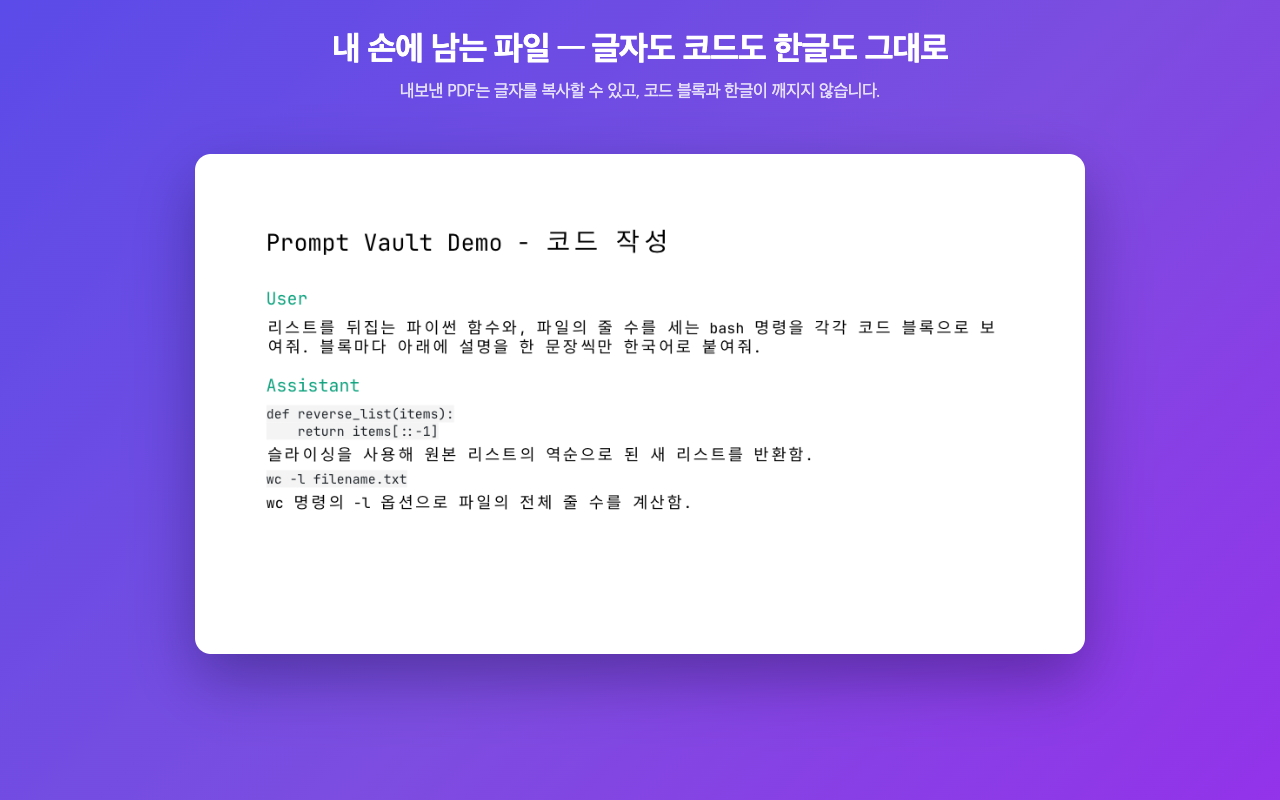
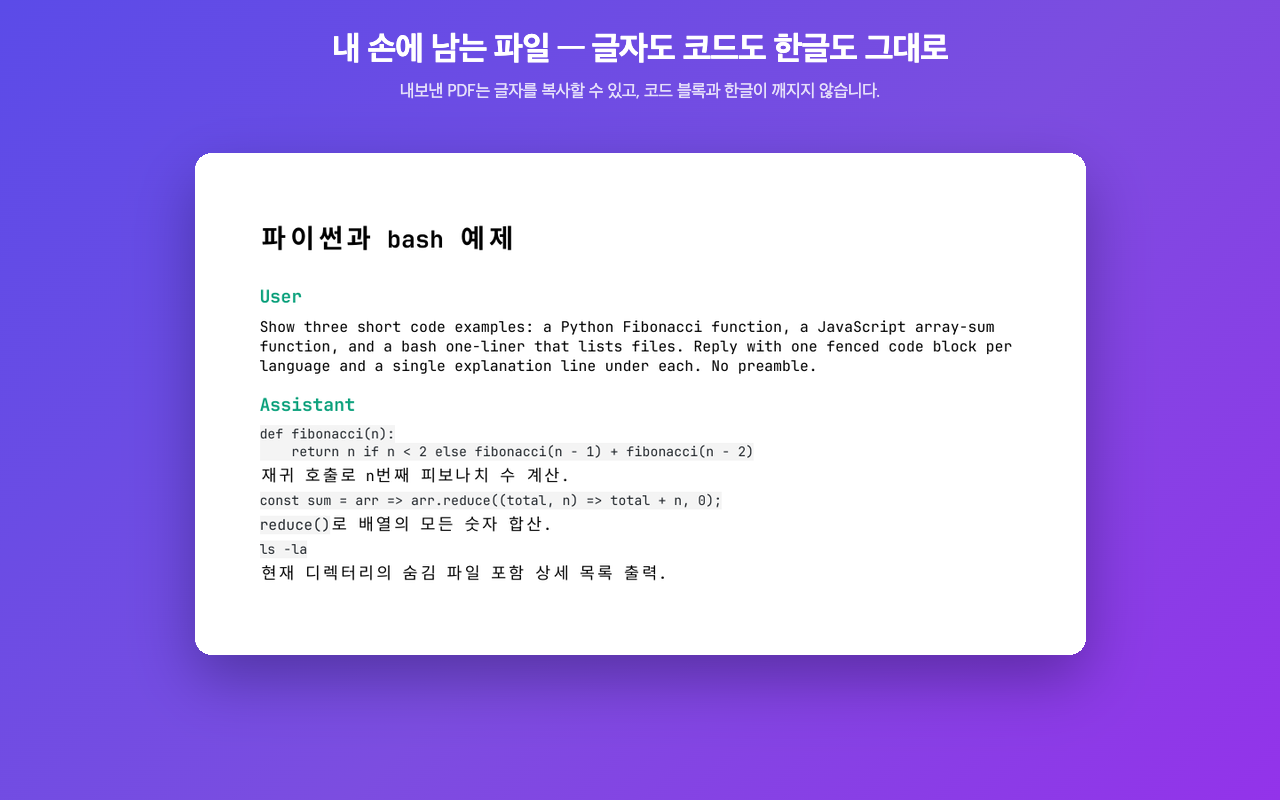
[DOCS] Refresh PDF store screenshots and close fulfilled backlog items (#115)

Changed region(s): [[0.1875, 0.3438, 0.7812, 0.7188], [0.1875, 0.2812, 0.5312, 0.3125]]

diff --git a/docs/store-listing.md b/docs/store-listing.md
@@ -130,13 +130,25 @@ Shipped screenshot set (in listing order):
    pixel is in frame, and a caption must not claim more than its own image shows.
 4. `screenshot-04-popup-settings` — the extension popup's format and bulk-icon toggles.
 5. `screenshot-05-exported-pdf` — a real exported PDF with mixed English/Korean prose and
-   code blocks, demonstrating selectable text and correctly rendered CJK glyphs. Its demo
-   conversation deliberately holds Python and shell only: the first capture used a JavaScript
-   answer and put both open PDF defects on display — the code font's ligature turned `=>` into
-   `⇒`, and an inline-code run kept its backticks (both filed in `backlog.md`). Choosing content
-   that avoids them keeps the caption true of the image, but it hides a defect that is still
-   there, so **re-capture this shot from a conversation containing `=>` once those two items
-   land** — that is the version worth shipping.
+   Python, JavaScript, and Bash code. Both locale images use the same existing non-sensitive
+   conversation from **Prompt Vault Demo**, with their original locale-specific captions.
+   The JavaScript block retains literal `=>`; the explanation renders inline `reduce()`
+   without backticks. This replaces the earlier Python/Bash-only capture that avoided those
+   two rendering cases.
+
+**PDF re-capture, 2026-10-09:** native Chrome Computer Use clicked the installed extension's
+PDF button on the existing demo conversation titled `파이썬과 bash 예제`; no conversation or
+account settings were changed. The enabled store extension was 1.14.3; the unpacked 1.14.3
+copy was disabled. Chrome reported a completed 18.7 KB download,
+`chatgpt-파이썬과-bash-예제-20261009.pdf` (19,137 bytes, one A4 page). `pdftotext -layout`
+confirmed two literal `=>` occurrences, `reduce()`, and Korean text. Poppler rendered the
+actual downloaded PDF; its content crop was scaled uniformly into the existing white panel,
+preserving the original caption bands. No product content was reconstructed. Both PNGs
+remain 1280×800. The source PDF SHA-256 is
[1 lines of base64/hex data omitted]
+Independent file verification reproduced the PDF render and matched its scaled crop
+pixel-for-pixel inside both PNGs; the original caption pixels were unchanged. The download
+completion and active extension version were observed by the capture operator only.
 
 **Capturing in English on a Korean machine.** macOS Chrome takes its UI language from the OS —
 there is no "display Chrome in this language" control in `chrome://settings/languages` — so
@@ -155,7 +167,8 @@ moves cover most of the frame without touching the user's own Chrome or any acco
 The Korean set needs none of that — it is what this machine produces untouched. Capture it
 *before* switching anything, or restore both settings first: the header order, and `dist/`'s own
 `ko` messages file. The two sets cover the same five views, so a change to what a view *shows* is a change to
-both — but they are separate captures, and their conversation content and counts differ.
+both. Shots 1–4 are separate captures whose conversation content and counts differ;
+shot 5 now shares the same exported PDF between locales.
 
 **What that does NOT cover, measured 2026-08-11:** strings Claude renders from
 `navigator.language` stay Korean regardless of the header — in the shipped

diff --git a/backlog.md b/backlog.md
@@ -21,10 +21,6 @@ continuation line is invisible to it and the blocked item is offered as actionab
 
 - [ ] [harness] Make `task_nodes.py prune-backlog` remove a selected multiline item's indented continuation block; this run removed only its three checkbox lines and left orphan prose. Add a regression preserving neighboring blocked items. *(blocked by: fix belongs to the external dev plugin repository, outside this sprint and repository scope)*
 
-### PR #113 — live DOM measurement recording (2026-10-05)
-
-- [ ] *(blocked by: needs a fresh per-row probe during Claude recents paging)* [doc] Classify the extra row in the intermediate 32-row / 30-link / 1-blank snapshot, or explicitly mark it unclassified. Counts alone do not establish that every anchorless row is the measured 1px blank row. (source: greptile) — docs/live-dom-verification.md:809 (introduced here)
-
 ### Store screenshot follow-ups (PR #65 review, 2026-08-11)
 
 - [ ] *(blocked by: needs `--lang=en-US` on the capture browser, which is a user-scoped Playwright MCP config change — propose it, do not assume it)*
@@ -34,11 +30,6 @@ continuation line is invisible to it and the blocked item is offered as actionab
       moves it — see the capture notes in `docs/store-listing.md`. Re-capture once the browser can
       be launched in English, or drop shot 3 from the English set rather than ship mixed-language
       product chrome.
-- [ ] [FIX] Re-capture `screenshot-05-exported-pdf.png` (both locales) from a conversation containing `=>` and an inline-code run. *(deferred: authenticated headed browser + non-sensitive demo conversation required)*
-      The two PDF rendering items it waited on landed in
-      v1.10.3 (ligatures disabled, inline code styled), so this is now unblocked. The
-      shipped capture uses Python/shell only, which keeps the caption honest but means the shot no
-      longer exercises the two cases most likely to regress.
 
 ### QA pass on the `/recents` bulk track + empty-project fix (2026-08-11)
 
